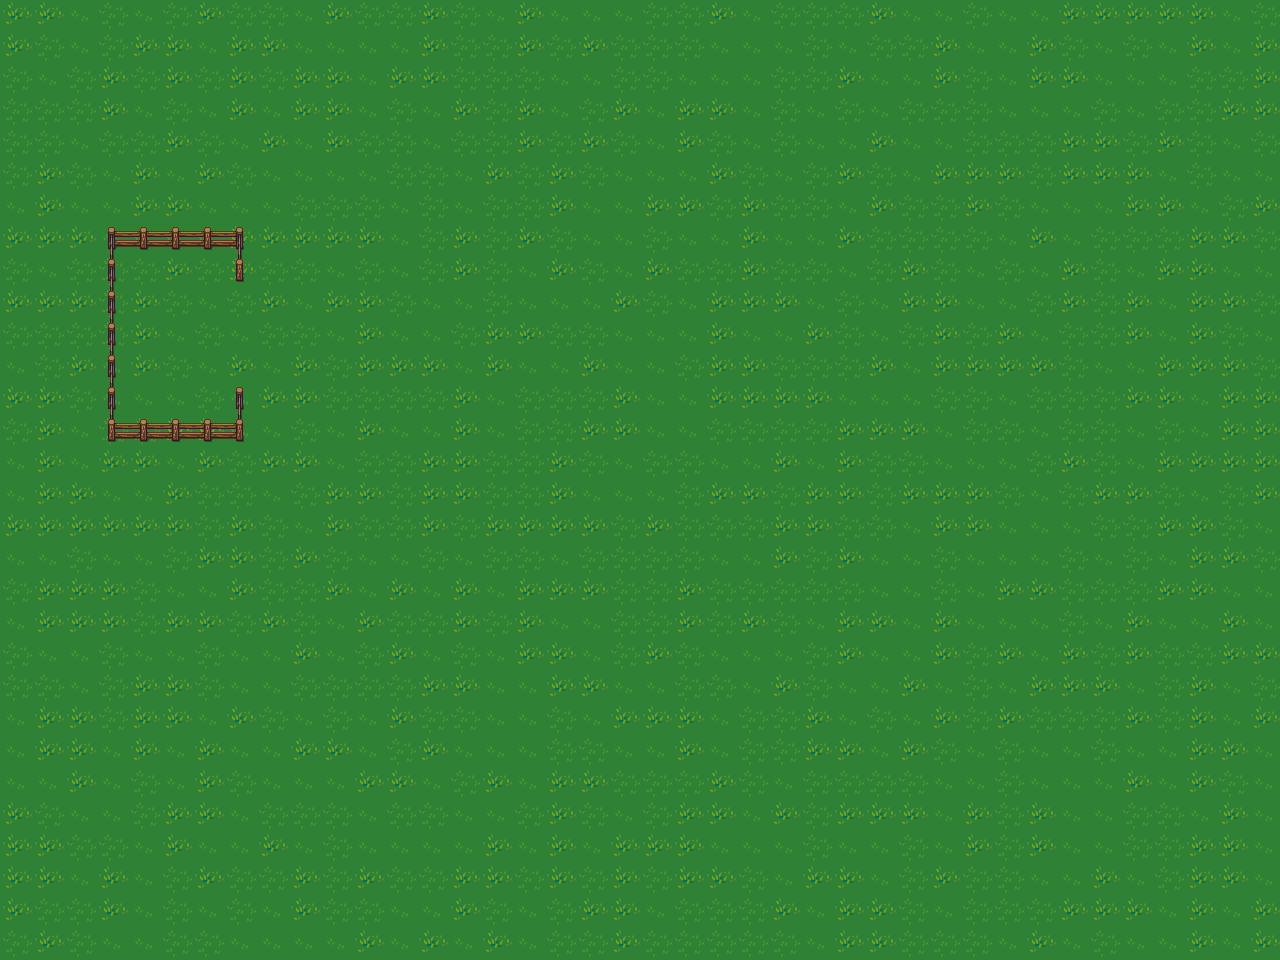
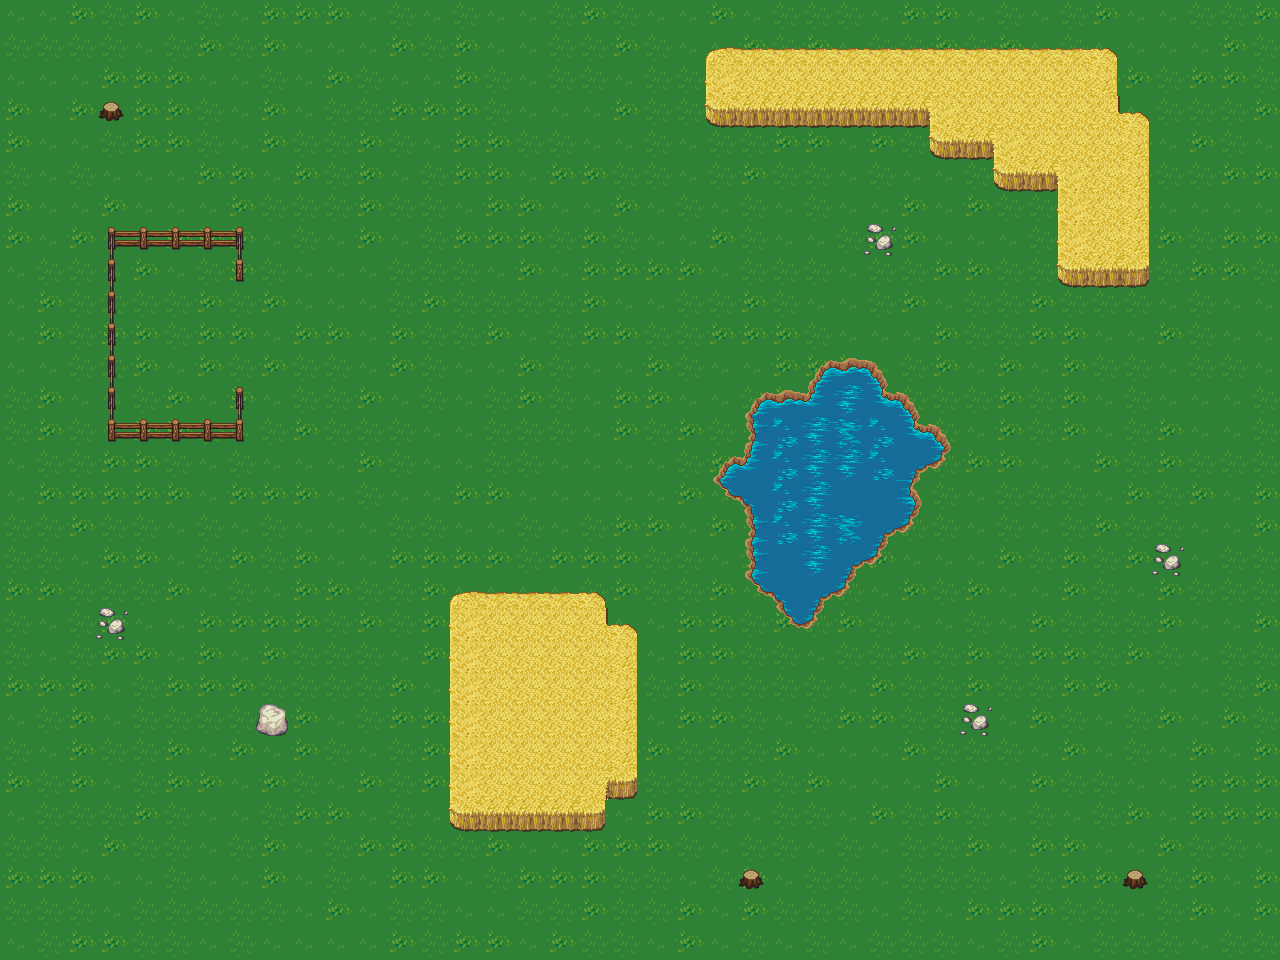
map ladbar und auswählbar(alle maps außer die erste singleplayer map sind leer)

diff --git a/src/de/sepab/sheep/display/GameBoard.java b/src/de/sepab/sheep/display/GameBoard.java
@@ -34,7 +34,11 @@ public class GameBoard extends JPanel{
 	private static final String OBSTACLE = "/de/sepab/sheep/model/gfx/fence.png";
 	private static final String FLOOR = "/de/sepab/sheep/model/gfx/grass.png";
 	private static final String POWERUP = "/de/sepab/sheep/model/gfx/wolf.png";
-	private static final String SINGLEPLAYERMAP1 = "/de/sepab/sheep/model/gfx/map1SinglePlayer.png"; //<--
+	private static final String SINGLEPLAYERMAP1 = "/de/sepab/sheep/model/gfx/map1SinglePlayer.png"; 
+	private static final String SINGLEPLAYERMAP2 = "/de/sepab/sheep/model/gfx/map2SinglePlayer.png"; 
+	private static final String SINGLEPLAYERMAP3 = "/de/sepab/sheep/model/gfx/map3SinglePlayer.png"; 
+	private static final String MULTIPLAYERMAP1 = "/de/sepab/sheep/model/gfx/map1MultiPlayer.png"; 
+	private static final String MULTIPLAYERMAP2 = "/de/sepab/sheep/model/gfx/map2MultiPlayer.png"; 
 
 	private static final BufferedImage IMAGESHEEP = optimize(load(SHEEP));
 	private static final BufferedImage IMAGEDOGE = optimize(load(DOGE));
@@ -62,12 +66,21 @@ public class GameBoard extends JPanel{
 	    										  {0,96},{32,96},{64,96},
 	    										  {0,128},{32,128},{64,128},
 	    										  
-	    										  {96,0},{128,0},{160,0},
+	    										  {96,0},{128,0},{160,0}, //weat
 	    										  {96,32},{128,32},{160,32},
 	    										  {96,64},{128,64},{160,64},
 	    										  {96,96},{128,96},{160,96},
 	    										  {96,128},{128,128},{160,128},
-												  };
+												  
+	    										  {192,0},{224,0},{256,0}, //water
+	    										  {192,32},{224,32},{256,32},
+	    										  {192,64},{224,64},{256,64},
+	    										  {192,96},{224,96},{256,96},
+	    										  {192,128},{224,128},{256,128},	
+	    										  {192,160},{224,160},{256,160},
+	    										  
+	    										  {96,160},{128,160},{160,160}, //1x1 obstacles
+	};
 	private static final int COORDSFLOOR[][] = {{0,160},{32,160},{64,160}};
 	private static final int COORDSPOWERUP[][] = {{0,0}};
 
@@ -77,7 +90,7 @@ public class GameBoard extends JPanel{
 	private static final int OBSTACLECOLOR[][] = {{145,110,30}, //fence
 												   {215,205,0}, //wheat
 												   	{0,30,215}, //water
-												 {205,200,180}, //1x1 obstacles
+												 {185,180,160}, //1x1 obstacles
 												   	};
 
 	private IRandomGenerator randomGenerator;
@@ -141,14 +154,25 @@ public class GameBoard extends JPanel{
 		}
     }
     
-    public void loadMap(int map) {
+    public void loadMap(int map, int modus) {
     	Menu.level = new Level();
     	this.level = Menu.level;
     	switch (map) {
-		case 1:
+		case 0:
 			IMAGEMAP = optimize(load(SINGLEPLAYERMAP1));
 			break;
-
+		case 1:
+			IMAGEMAP = optimize(load(SINGLEPLAYERMAP2));
+			break;
+		case 2:
+			IMAGEMAP = optimize(load(SINGLEPLAYERMAP3));
+			break;
+		case 3:
+			IMAGEMAP = optimize(load(MULTIPLAYERMAP1));
+			break;
+		case 4:
+			IMAGEMAP = optimize(load(MULTIPLAYERMAP2));
+			break;
 		default:
 			IMAGEMAP = optimize(load(SINGLEPLAYERMAP1));
 			break;
@@ -205,8 +229,52 @@ public class GameBoard extends JPanel{
 					if (x - 1 >= 0 && y - 1 >= 0) {
 						topLeft = checkForColor(x - 1, y - 1, OBSTACLECOLOR, 1);
 					}
-					addObstacleCage(x, y, top, right, bottom, left);
+					addObstaclesWheat(x, y, top, topRight, right, bottomRight, bottom, bottomLeft, left, topLeft);
 				 }
+				 if (c.getRed() == OBSTACLECOLOR[2][0] && c.getGreen() == OBSTACLECOLOR[2][1] && c.getBlue() == OBSTACLECOLOR[2][2]) {
+					 boolean top = false, topRight = false, right = false, bottomRight = false, bottom = false, bottomLeft = false, left = false, topLeft = false;
+					if (y - 1 >= 0) {
+						top = checkForColor(x, y - 1, OBSTACLECOLOR, 2);
+					}
+					if (x + 1 <= this.x && y - 1 >= 0) {
+						topRight = checkForColor(x + 1, y - 1, OBSTACLECOLOR, 2);
+					}
+					if (x + 1 <= this.x) {
+						right = checkForColor(x + 1, y, OBSTACLECOLOR, 2);
+					}
+					if (x + 1 <= this.x && y + 1 <= this.y) {
+						bottomRight = checkForColor(x + 1, y + 1, OBSTACLECOLOR, 2);
+					}
+					if (y + 1 <= this.y) {
+						bottom = checkForColor(x, y + 1, OBSTACLECOLOR, 2);
+					}
+					if (x - 1 >= 0 && y + 1 <= this.y) {
+						bottomLeft = checkForColor(x - 1, y + 1, OBSTACLECOLOR, 2);
+					}
+					if (x - 1 >= 0) {
+						left = checkForColor(x - 1, y, OBSTACLECOLOR, 2);
+					}
+					if (x - 1 >= 0 && y - 1 >= 0) {
+						topLeft = checkForColor(x - 1, y - 1, OBSTACLECOLOR, 2);
+					}
+					addObstaclesWater(x, y, top, topRight, right, bottomRight, bottom, bottomLeft, left, topLeft);
+				 }
+				 if (c.getRed() == OBSTACLECOLOR[3][0] && c.getGreen() == OBSTACLECOLOR[3][1] && c.getBlue() == OBSTACLECOLOR[3][2]) {
+					 int i = randomGenerator.getRandomNumber(0, 2);
+						switch (i) {
+						case 0:
+							level.addObstacle(x*32, y*32, 48);
+							break;
+						case 1:
+							level.addObstacle(x*32, y*32, 49);
+							break;
+						case 2:
+							level.addObstacle(x*32, y*32, 50);
+							break;
+						default:
+							break;
+						}
+				}
 			}
     	}
     	Menu.level = level;
@@ -218,12 +286,77 @@ public class GameBoard extends JPanel{
     	Menu.level.getReferences(Menu.ai, this, Menu.timer, Menu.input);
     }
     
-    public void addObstaclesWheat(int x, int y, boolean top, boolean topRight, boolean right, boolean bottomRight, boolean bottom, boolean bottomLeft, boolean left, boolean topLeft){
+    public void addObstaclesWater(int x, int y, boolean top, boolean topRight, boolean right, boolean bottomRight, boolean bottom, boolean bottomLeft, boolean left, boolean topLeft){
     	if (top == false && right == false && bottom == false && left == false) {
-			System.out.print("ERROR:There must be at least 2 wheat near each other.");
+			System.out.print("ERROR:Incorrect construction.");
+		}else
+		if (top == false && right == true && bottom == true && left == false) {
+			level.addObstacle(x*32, y*32, 36);
+		}else
+		if (top == false && right == true && bottom == true && left == true) {
+			level.addObstacle(x*32, y*32, 37);
+		}else
+		if (top == false && right == false && bottom == true && left == true) {
+			level.addObstacle(x*32, y*32, 38);
+		}else
+		if (top == true && right == true && bottom == true && left == false) {
+			level.addObstacle(x*32, y*32, 39);
+		}else
+		if (top == true && right == true && bottom == true && left == true) {
+			if (topLeft == true && topRight == true && bottomRight == true && bottomLeft == true) {
+				int i = randomGenerator.getRandomNumber(0, 3);
+				switch (i) {
+				case 0:
+					level.addObstacle(x*32, y*32, 40);
+					break;
+				case 1:
+					level.addObstacle(x*32, y*32, 45);
+					break;
+				case 2:
+					level.addObstacle(x*32, y*32, 46);
+					break;
+				case 3:
+					level.addObstacle(x*32, y*32, 47);
+					break;
+				default:
+					break;
+				}
+				
+			}else
+			if (topLeft == true && topRight == true && bottomRight == false && bottomLeft == true) {
+				level.addObstacle(x*32, y*32, 31);
+			}else
+			if (topLeft == true && topRight == true && bottomRight == true && bottomLeft == false) {
+				level.addObstacle(x*32, y*32, 32);
+			}else
+			if (topLeft == true && topRight == false && bottomRight == true && bottomLeft == true) {
+				level.addObstacle(x*32, y*32, 34);
+			}else
+			if (topLeft == false && topRight == true && bottomRight == true && bottomLeft == true) {
+				level.addObstacle(x*32, y*32, 35);
+			}else{
+				System.out.print("ERROR: Incorrect construction.");
+			}
+		}else
+		if (top == true && right == false && bottom == true && left == true) {
+			level.addObstacle(x*32, y*32, 41);
 		}else
 		if (top == true && right == true && bottom == false && left == false) {
-			level.addObstacle(x*32, y*32, 27);
+			level.addObstacle(x*32, y*32, 42);
+		}else
+		if (top == true && right == true && bottom == false && left == true) {
+			level.addObstacle(x*32, y*32, 43);	
+		}else
+		if (top == true && right == false && bottom == false && left == true) {
+			level.addObstacle(x*32, y*32, 44);	
+		}else{
+			System.out.print("ERROR: Incorrect construction.");
+		}
+    }
+    
+    public void addObstaclesWheat(int x, int y, boolean top, boolean topRight, boolean right, boolean bottomRight, boolean bottom, boolean bottomLeft, boolean left, boolean topLeft){
+    	if (top == false && right == false && bottom == false && left == false) {
+			System.out.print("ERROR:Incorrect construction.");
 		}else
 		if (top == false && right == true && bottom == true && left == false) {
 			level.addObstacle(x*32, y*32, 21);
@@ -238,7 +371,37 @@ public class GameBoard extends JPanel{
 			level.addObstacle(x*32, y*32, 24);
 		}else
 		if (top == true && right == true && bottom == true && left == true) {
-			level.addObstacle(x*32, y*32, 25);
+			if (topLeft == true && topRight == true && bottomRight == true && bottomLeft == true) {
+				level.addObstacle(x*32, y*32, 25);
+			}else
+			if (topLeft == true && topRight == true && bottomRight == false && bottomLeft == true) {
+				level.addObstacle(x*32, y*32, 16);
+			}else
+			if (topLeft == true && topRight == true && bottomRight == true && bottomLeft == false) {
+				level.addObstacle(x*32, y*32, 17);
+			}else
+			if (topLeft == true && topRight == false && bottomRight == true && bottomLeft == true) {
+				level.addObstacle(x*32, y*32, 19);
+			}else
+			if (topLeft == false && topRight == true && bottomRight == true && bottomLeft == true) {
+				level.addObstacle(x*32, y*32, 20);
+			}else{
+				System.out.print("ERROR: Incorrect construction.");
+			}
+		}else
+		if (top == true && right == false && bottom == true && left == true) {
+			level.addObstacle(x*32, y*32, 26);
+		}else
+		if (top == true && right == true && bottom == false && left == false) {
+			level.addObstacle(x*32, y*32, 27);
+		}else
+		if (top == true && right == true && bottom == false && left == true) {
+			level.addObstacle(x*32, y*32, 28);	
+		}else
+		if (top == true && right == false && bottom == false && left == true) {
+			level.addObstacle(x*32, y*32, 29);	
+		}else{
+			System.out.print("ERROR: Incorrect construction.");
 		}
     }
 

diff --git a/src/de/sepab/sheep/display/Menu.java b/src/de/sepab/sheep/display/Menu.java
@@ -23,6 +23,7 @@ import de.sepab.sheep.logic.ILevel;
 import de.sepab.sheep.logic.IMovement;
 import de.sepab.sheep.logic.IRandomGenerator;
 import de.sepab.sheep.logic.ITimer;
+import de.sepab.sheep.logic.Level.GameModus;
 
 
 
@@ -129,8 +130,9 @@ public class Menu{
 							height = 960	;
 	
 	public static ILevel level;
-	private static IRandomGenerator randomGenerator;
+	public static IRandomGenerator randomGenerator;
 	private static IDataLoader dataLoader;
+	public static GameModus gameModus;
 	
 	@SuppressWarnings("unused")
 	public static ICollision collision;
@@ -463,10 +465,9 @@ public class Menu{
 				singlePlayerButton_Start.addActionListener(new ActionListener() {
 					
 					public void actionPerformed(ActionEvent arg0) {
-//						gameBoard.setFocusable(true);
 						level.getReferences(ai, gameBoard, timer, input);
+						gameBoard.loadMap(singlePlayerComboBox_Map.getSelectedIndex(), singlePlayerComboBox_Modus.getSelectedIndex());
 						gameBoard.Update(level, randomGenerator);
-						gameBoard.loadMap(1);
 						gameBoard.shuffle();
 						setCurrentLabel(gameBoard);
 						level.TimerStart();
@@ -485,8 +486,13 @@ public class Menu{
 				multiPlayerButton_Start.addActionListener(new ActionListener() {
 					
 					public void actionPerformed(ActionEvent arg0) {
+						level.getReferences(ai, gameBoard, timer, input);
+						gameBoard.Update(level, randomGenerator);
+						gameBoard.loadMap(multiPlayerComboBox_Map.getSelectedIndex() + 3, 2);
+						gameBoard.shuffle();
 						setCurrentLabel(gameBoard);
-						gameBoard.repaint();
+						level.TimerStart();
+						gameBoard.requestFocus();
 					}
 				});
 				multiPlayerButton_Back.addActionListener(new ActionListener() {
